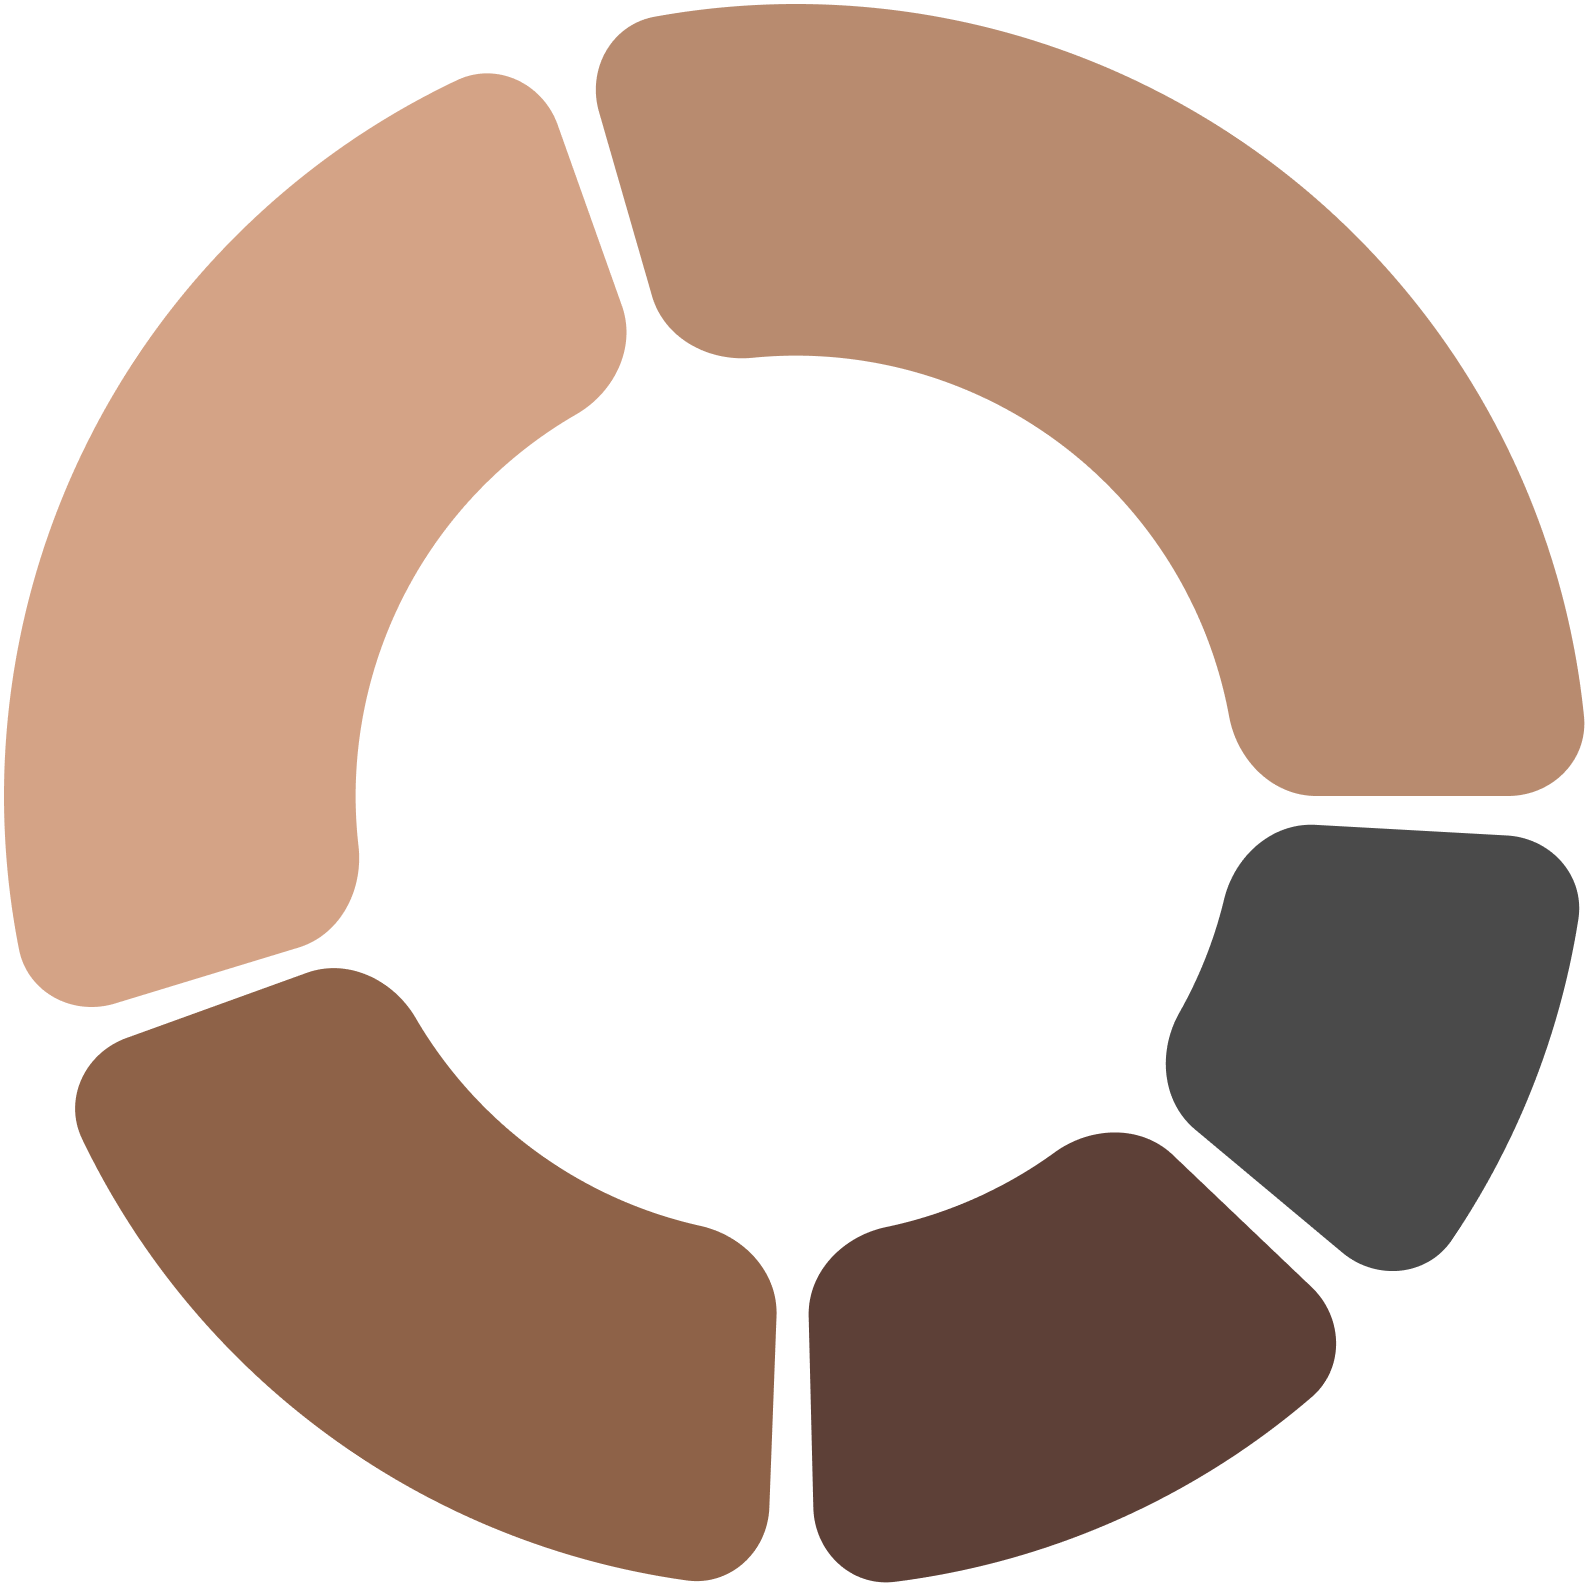
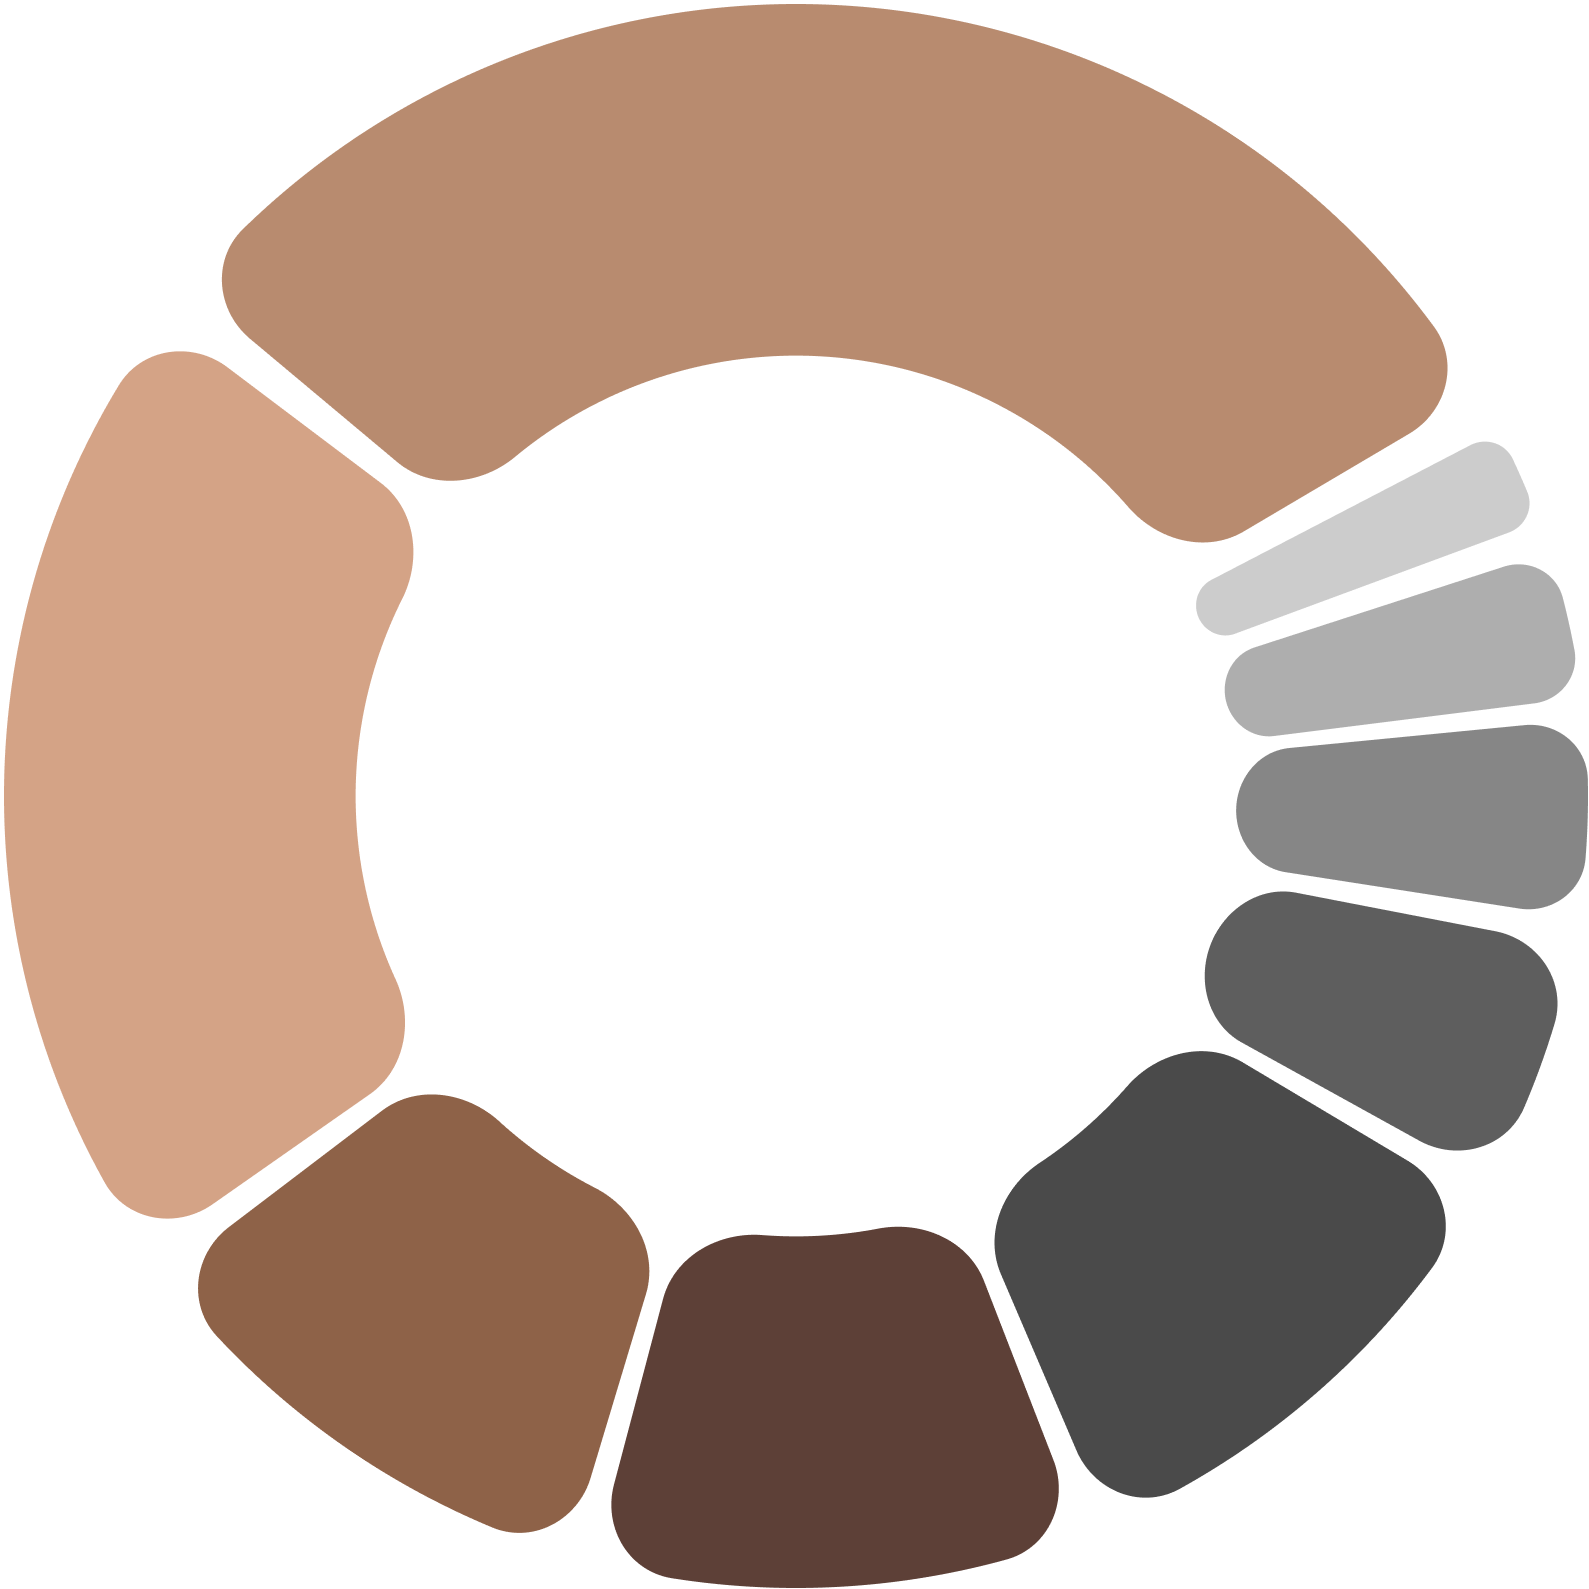
popup page and chart ui update

diff --git a/src/components/landing-page/landing-hero.jsx b/src/components/landing-page/landing-hero.jsx
@@ -49,11 +49,18 @@ import people2 from '../../assets/people-2.png';
 import people3 from '../../assets/people-3.png';
 import people4 from '../../assets/people-4.png';
 import people5 from '../../assets/people-5.png';
+import people6 from '../../assets/people-6.png';
 import vectorDecor from '../../assets/Vector.svg';
 import vectorKnot from '../../assets/Vector-2.svg';
 import vectorStar from '../../assets/Vector-3.svg';
 import vectorStar2 from '../../assets/Vector-4.svg';
 import vectorOrnament from '../../assets/Vector-5.svg';
+import team1 from '../../assets/popup-img-1.png';
+import team2 from '../../assets/popup-img-2.png';
+import team3 from '../../assets/popup-img-3.png';
+import team4 from '../../assets/popup-img-4.png';
+import team5 from '../../assets/popup-img-5.png';
+import team6 from '../../assets/popup-img-6.png';
 
 
 const LandingHero = () => {
@@ -67,37 +74,37 @@ const LandingHero = () => {
         rose_foster: {
             name: "Rose Foster",
             role: "Co-Founder / CFO",
-            image: people1,
+            image: team1,
             bio: "Ross Foster is a visionary entrepreneur and Co-Founder of Foster Whisky, bringing together extensive experience in engineering, construction, and luxury development. As CEO of Snowdrop Developments, he has successfully led high-value residential projects across Scotland, earning a reputation for operational excellence and long-term strategic leadership. With a background that includes service in the Royal Navy and global engineering projects, Ross combines discipline, innovation, and business expertise to help drive the vision of the Ecosse Coin ecosystem and its whisky-backed asset model."
         },
         dean_thomson: {
             name: "Dean Thomson",
             role: "Operations Director / Warehouse Manager",
-            image: people2,
+            image: team2,
             bio: "Dean Thomson is a seasoned whisky industry professional and Co-Founder of Foster Whisky, with over a decade of hands-on experience in Scotch whisky production, cask management, maturation, and logistics. Having worked with renowned distilleries including Whyte & Mackay, Dean developed deep expertise across every stage of whisky operations before moving into senior leadership roles within the whisky cask brokerage sector. His extensive industry knowledge and operational insight play a key role in strengthening the authenticity and real-world asset foundation of the Ecosse Coin platform. "
         },
         rose_blease: {
             name: "Rose Blease",
             role: "Expansion / Site Delivery Manager",
-            image: people5,
+            image: team3,
             bio: "Ross Blease is an experienced construction and development professional with over 20 years of industry expertise, progressing from a qualified joiner to Managing Director of Snowdrop Developments UK Limited. With a strong background in residential property development, project management, and operational leadership, he has successfully overseen multiple live developments while maintaining high standards of quality, safety, and delivery. Ross combines hands-on technical knowledge with strategic leadership, bringing valuable operational experience and industry insight to the Ecosse Coin ecosystem and its long-term growth vision."
         },
         mark_stenhouse: {
             name: "Mark Stenhouse",
             role: "Finance Director",
-            image: people4,
+            image: team4,
             bio: "Mark Stenhouse is an accomplished business development professional with over 35 years of experience across the finance, technology, oil, and gas sectors. Throughout his career, he has built strong relationships with high-net-worth individuals, banking institutions, insurance leaders, and major global energy companies including Saudi Aramco, Shell, Total, and Kuwait Oil Company. With extensive international market knowledge and a strong background in strategic growth and commercial development, Mark brings valuable industry expertise and global business connections to the Ecosse Coin ecosystem, supporting its vision of combining premium whisky assets with innovative blockchain technology. "
         },
         charles_mcgregor: {
             name: "Charles McGregor",
             role: "Technical Manager",
-            image: people3,
+            image: team5,
             bio: "Charles McGregor is a highly experienced construction and civil engineering professional with over 20 years of expertise in residential development, infrastructure delivery, and operational leadership. As Managing Director of Snowdrop Developments UK Limited, he has successfully led multi-site developments, managed large civil engineering operations, and delivered projects safely, efficiently, and within budget. His strong technical background, combined with strategic and commercial expertise, has made him a respected leader within the construction industry. Charles is also actively involved in the Ecosse Coin project, a whisky-backed initiative that combines real-world asset value with innovative blockchain technology, further strengthening the project’s industry credibility and long-term vision."
         },
         bek_massie: {
             name: "Rebekah Massie",
             role: "Office Manager",
-            image: people1,
+            image: team6,
             bio: "Rebekah Massie is an experienced operations and administration professional with a strong background in office management, financial coordination, and executive support. As Office Manager at Snowdrop Developments (UK) Ltd, she oversees daily business operations, budgeting, procurement, and organisational processes, ensuring efficiency and compliance across the company. With expertise in team coordination, strategic administration, and operational management, Rebekah brings valuable organisational strength and professional support to the Ecosse Coin ecosystem, contributing to its structured growth and operational excellence."
         }
     };
@@ -544,39 +551,39 @@ const LandingHero = () => {
                                 <h4 className="text-[18px] text-[#1E1E1E] uppercase tracking-[0.2em] mb-6">Allocation</h4>
                                 <div className="space-y-4">
                                     <div className="flex justify-between items-center text-sm md:text-[15px]">
-                                        <div className="flex items-center gap-3"><span className="w-2.5 h-2.5 rounded-full bg-[#c09172]"></span><span className="font-medium text-[#111111] text-[18px]">Public Sale</span></div>
+                                        <div className="flex items-center gap-3"><span className="w-2.5 h-2.5 rounded-full bg-[#B88B6F]"></span><span className="font-medium text-[#111111] text-[18px]">Public Sale</span></div>
                                         <div className="flex items-center gap-6"><span className="text-[#1E1E1E] font-medium hidden sm:block text-[18px] tracking-[0.02em]">358,339,800,000 Tokens</span><span className="font-bold text-[#111111] w-12 text-right text-[18px]">(39%)</span></div>
                                     </div>
                                     <div className="flex justify-between items-center text-sm md:text-[15px]">
-                                        <div className="flex items-center gap-3"><span className="w-2.5 h-2.5 rounded-full bg-[#8e6044]"></span><span className="font-medium text-[#111111] text-[18px]">Private Investors</span></div>
+                                        <div className="flex items-center gap-3"><span className="w-2.5 h-2.5 rounded-full bg-[#D4A386]"></span><span className="font-medium text-[#111111] text-[18px]">Private Investors</span></div>
                                         <div className="flex items-center gap-6"><span className="text-[#1E1E1E] font-medium hidden sm:block text-[18px] tracking-[0.02em]">183,764,000,000 Tokens</span><span className="font-bold text-[#111111] w-12 text-right text-[18px]">(20%)</span></div>
                                     </div>
                                     <div className="flex justify-between items-center text-sm md:text-[15px]">
-                                        <div className="flex items-center gap-3"><span className="w-2.5 h-2.5 rounded-full bg-[#65432d]"></span><span className="font-medium text-[#111111] text-[18px]">Treasury</span></div>
+                                        <div className="flex items-center gap-3"><span className="w-2.5 h-2.5 rounded-full bg-[#8E6248]"></span><span className="font-medium text-[#111111] text-[18px]">Treasury</span></div>
                                         <div className="flex items-center gap-6"><span className="text-[#1E1E1E] font-medium hidden sm:block text-[18px] tracking-[0.02em]">91,882,000,000 Tokens</span><span className="font-bold text-[#111111] w-12 text-right text-[18px]">(10%)</span></div>
                                     </div>
                                     <div className="flex justify-between items-center text-sm md:text-[15px]">
-                                        <div className="flex items-center gap-3"><span className="w-2.5 h-2.5 rounded-full bg-[#463126]"></span><span className="font-medium text-[#111111] text-[18px]">Team</span></div>
+                                        <div className="flex items-center gap-3"><span className="w-2.5 h-2.5 rounded-full bg-[#5D4037]"></span><span className="font-medium text-[#111111] text-[18px]">Team</span></div>
                                         <div className="flex items-center gap-6"><span className="text-[#1E1E1E] font-medium hidden sm:block text-[18px] tracking-[0.02em]">91,882,000,000 Tokens</span><span className="font-bold text-[#111111] w-12 text-right text-[18px]">(10%)</span></div>
                                     </div>
                                     <div className="flex justify-between items-center text-sm md:text-[15px]">
-                                        <div className="flex items-center gap-3"><span className="w-2.5 h-2.5 rounded-full bg-[#30211a]"></span><span className="font-medium text-[#111111] text-[18px]">Liquidity</span></div>
+                                        <div className="flex items-center gap-3"><span className="w-2.5 h-2.5 rounded-full bg-[#4A4A4A]"></span><span className="font-medium text-[#111111] text-[18px]">Liquidity</span></div>
                                         <div className="flex items-center gap-6"><span className="text-[#1E1E1E] font-medium hidden sm:block text-[18px] tracking-[0.02em]">91,882,000,000 Tokens</span><span className="font-bold text-[#111111] w-12 text-right text-[18px]">(10%)</span></div>
                                     </div>
                                     <div className="flex justify-between items-center text-sm md:text-[15px]">
-                                        <div className="flex items-center gap-3"><span className="w-2.5 h-2.5 rounded-full bg-[#9e8473]"></span><span className="font-medium text-[#111111] text-[18px]">Ecosystem Growth</span></div>
+                                        <div className="flex items-center gap-3"><span className="w-2.5 h-2.5 rounded-full bg-[#5E5E5E]"></span><span className="font-medium text-[#111111] text-[18px]">Ecosystem Growth</span></div>
                                         <div className="flex items-center gap-6"><span className="text-[#1E1E1E] font-medium hidden sm:block text-[18px] tracking-[0.02em]">45,941,000,000 Tokens</span><span className="font-bold text-[#111111] w-12 text-right text-[18px]">(5%)</span></div>
                                     </div>
                                     <div className="flex justify-between items-center text-sm md:text-[15px]">
-                                        <div className="flex items-center gap-3"><span className="w-2.5 h-2.5 rounded-full bg-[#d0c6bf]"></span><span className="font-medium text-[#111111] text-[18px]">Advisors</span></div>
+                                        <div className="flex items-center gap-3"><span className="w-2.5 h-2.5 rounded-full bg-[#868686]"></span><span className="font-medium text-[#111111] text-[18px]">Advisors</span></div>
                                         <div className="flex items-center gap-6"><span className="text-[#1E1E1E] font-medium hidden sm:block text-[18px] tracking-[0.02em]">27,564,600,000 Tokens</span><span className="font-bold text-[#111111] w-12 text-right text-[18px]">(3%)</span></div>
                                     </div>
                                     <div className="flex justify-between items-center text-sm md:text-[15px]">
-                                        <div className="flex items-center gap-3"><span className="w-2.5 h-2.5 rounded-full bg-[#e3ded9]"></span><span className="font-medium text-[#111111] text-[18px]">Marketing</span></div>
+                                        <div className="flex items-center gap-3"><span className="w-2.5 h-2.5 rounded-full bg-[#AEAEAE]"></span><span className="font-medium text-[#111111] text-[18px]">Marketing</span></div>
                                         <div className="flex items-center gap-6"><span className="text-[#1E1E1E] font-medium hidden sm:block text-[18px] tracking-[0.02em]">18,376,400,000 Tokens</span><span className="font-bold text-[#111111] w-12 text-right text-[18px]">(2%)</span></div>
                                     </div>
                                     <div className="flex justify-between items-center text-sm md:text-[15px]">
-                                        <div className="flex items-center gap-3"><span className="w-2.5 h-2.5 rounded-full bg-[#cfd8dc]"></span><span className="font-medium text-[#111111] text-[18px]">Burn Reserve Wallet</span></div>
+                                        <div className="flex items-center gap-3"><span className="w-2.5 h-2.5 rounded-full bg-[#CCCCCC]"></span><span className="font-medium text-[#111111] text-[18px]">Burn Reserve Wallet</span></div>
                                         <div className="flex items-center gap-6"><span className="text-[#1E1E1E] font-medium hidden sm:block text-[18px] tracking-[0.02em]">9,188,200,000 Tokens</span><span className="font-bold text-[#111111] w-12 text-right text-[18px]">(1%)</span></div>
                                     </div>
                                 </div>
@@ -1009,15 +1016,15 @@ const LandingHero = () => {
                                 className="absolute top-[70%] left-[23%] w-[31%] rotate-[6deg] hover:rotate-0 transition-transform duration-700 ease-in-out z-40 group cursor-pointer"
                                 onClick={() => setSelectedMember(teamMembers.bek_massie)}
                             >
-                                <div className="absolute -top-[40px] left-[40%] -translate-x-1/2 opacity-0 group-hover:opacity-100 group-hover:-top-5 transition-all duration-700 ease-in-out z-20">
+                                <div className="absolute -top-[40px] left-[58%] -translate-x-1/2 opacity-0 group-hover:opacity-100 group-hover:-top-5 transition-all duration-700 ease-in-out z-20">
                                     <h3 className="text-[#FDE8D5] text-[14px] md:text-[18px] tracking-[0.2em] whitespace-nowrap">
-                                        Bek Massie
+                                        Rebekah Massie
                                     </h3>
                                     <p className="text-[#FDE8D5] text-[12px] md:text-[14px] tracking-[0.1em] mt-1 whitespace-nowrap">
-                                        office manager
+                                        Office Manager
                                     </p>
                                 </div>
-                                <img src={people1} alt="Team Member" className="w-full h-auto object-cover rounded-lg sm:rounded-xl transition-all duration-700 ease-in-out group-hover:translate-y-10" />
+                                <img src={people6} alt="Team Member" className="w-full h-auto object-cover rounded-lg sm:rounded-xl transition-all duration-700 ease-in-out group-hover:translate-y-10" />
                             </div>
 
                             {/* Vector Ornament - bottom right */}
@@ -1162,7 +1169,7 @@ const LandingHero = () => {
                 >
                     {/* Modal Content container */}
                     <div
-                        className="relative w-full max-w-md bg-[#1A1A1A] border border-[#2D2D2D] rounded-[24px] shadow-[0_20px_50px_rgba(0,0,0,0.5)] overflow-hidden text-white flex flex-col transform transition-all duration-300 scale-100 animate-scale-up"
+                        className="relative w-full max-w-lg bg-[#1A1A1A] border border-[#2D2D2D] rounded-[24px] shadow-[0_20px_50px_rgba(0,0,0,0.5)] overflow-hidden text-white flex flex-col transform transition-all duration-300 scale-100 animate-scale-up"
                         onClick={(e) => e.stopPropagation()}
                     >
                         {/* Close button overlaying top right of the image */}
@@ -1177,16 +1184,16 @@ const LandingHero = () => {
                         </button>
 
                         {/* Top: Image */}
-                        <div className="w-full aspect-[4/3] relative overflow-hidden bg-[#141414] flex justify-center items-center">
+                        <div className="w-full relative overflow-hidden flex justify-center items-center">
                             <img
                                 src={selectedMember.image}
                                 alt={selectedMember.name}
-                                className="h-full object-cover"
+                                className="w-full max-w-[250px] h-auto object-cover m-4"
                             />
                         </div>
 
                         {/* Bottom: Name, Role, Bio */}
-                        <div className="w-full p-4 md:p-6 flex flex-col bg-[#1E1E1E]">
+                        <div className="w-full px-4 md:px-6 flex flex-col">
                             <div className="mb-2 text-center">
                                 <h3 className="text-2xl md:text-3xl font-black tracking-wider text-[#FDE8D5] mt-1 uppercase">
                                     {selectedMember.name}